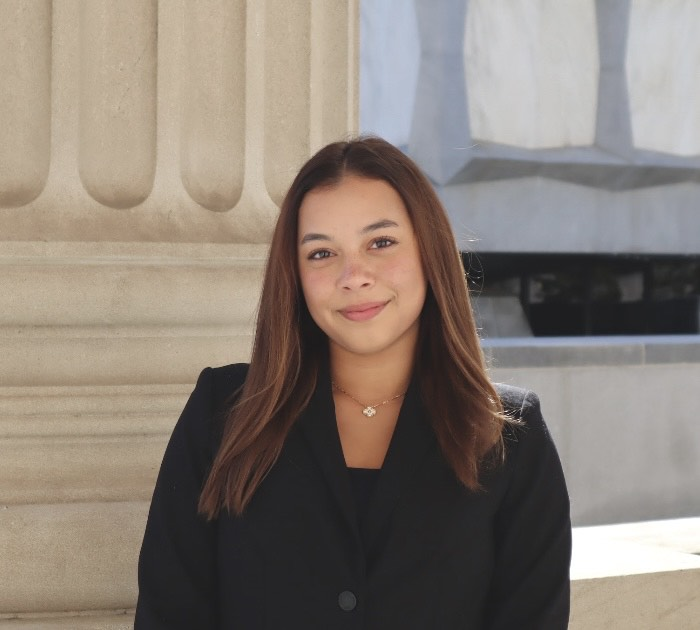
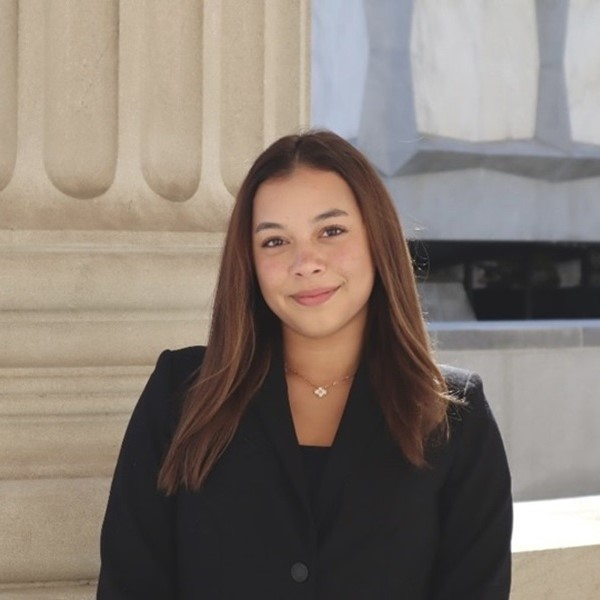
fixed mine and issy's profile pics, edited timeline, fixed up about us info and the TBDs on the site

diff --git a/src/app/components/index.html b/src/app/components/index.html
@@ -28,7 +28,7 @@
   <link href="assets/css/main.css" rel="stylesheet">
 
   <!-- =======================================================
-  * Template Name: Gp
+  * Template Name: Helix
   * Template URL: https://bootstrapmade.com/gp-free-multipurpose-html-bootstrap-template/
   * Updated: Jun 29 2024 with Bootstrap v5.3.3
   * Author: BootstrapMade.com
@@ -129,9 +129,12 @@
             <img src="assets/img/about.jpg" class="img-fluid" alt="">
           </div>
           <div class="col-lg-6 order-2 order-lg-1 content">
-            <h3>Yale's Student Healthcare + Biotech Incubator.</h3>
+            <h3>Yale's Student Healthcare and Biotech Incubator.</h3>
             <p class="fst-italic">
-              We are Yale’s only student-run incubator dedicated to accelerating healthcare, healthtech, and biotech startups. Our mission is to connect ambitious undergraduate entrepreneurs with visionary founders from Yale and the New Haven community. We carefully select the most promising startups in various health-focused fields, each at a unique stage of development, to join our incubator. Our passionate and driven students play a pivotal role in helping these startups reach critical milestones and accelerate their growth. Last year, we proudly supported 4 innovative ventures, and we are excited to build on this success in the 2024-2025 academic year.
+              We are Yale’s only student-run incubator on campus. We focus on accelerating healthcare, healthtech, and biotech startups. Our mission is to connect ambitious undergraduate entrepreneurs with visionary founders from Yale and the New Haven community. Every year, we select from some of the most promising startups in various health-focused fields at Yale, each at a unique stage of development, to join our incubator. Our passionate and driven students play a pivotal role in helping these startups reach critical milestones and accelerate their growth. Last year, we proudly supported 4 innovative ventures, and we are excited to build on this success in the 2024-2025 academic year.
+            </p>
+            <p class=""fst-italic">
+              We provide startups with the workforce to accelerate their product development, capital raises, and contracts with industry partners. Students in the program have the opportunity to hone their skills in science, software development, marketing, and finance - all while working in a high-impact real world setting, taking on initiates, and building networks with industry professionals.
             </p>
             <p class="fst-italic">
               Are you ready to dive headfirst into Yale’s entrepreneurship community? With the fall semester just around the corner, we’re looking for passionate, curious, and driven students to join our team. No startup experience? No problem! Whether you’re a seasoned entrepreneur or just eager to learn, we welcome all levels of experience. If you’re excited about making an impact and working with some of Yale’s most innovative startups, fill out our application above!
@@ -232,7 +235,7 @@
               <i class="bi bi-archive flex-shrink-0"></i>
               <div>
                 <h4>History</h4>
-                <p>Helix was founded in 2016 by a cohort of passionate Yale undergraduates in partnership with Yale Tsai City. 
+                <p>Helix was founded in 2018 by a cohort of passionate Yale undergraduates in partnership with Yale Tsai City. 
                   Since then, Helix has helped accelerate startups from a diverse client base, from life-saving biomedical devices, to social service platforms, 
                   next-generation medical diagnostics, and global health solutions. </p>
               </div>
@@ -251,7 +254,7 @@
               <i class="bi bi-broadcast flex-shrink-0"></i>
               <div>
                 <h4>Community</h4>
-                <p> Helix is a closely-knit group bonded by shared interests and diverse backgrounds. New and old students and founders can connect over weekend retreats, founder dinners... TBD</p>
+                <p> Helix is a closely-knit group bonded by shared interests and diverse backgrounds. New and old students and founders can connect over weekend retreats, founder dinners, teem meetings, and more!</p>
               </div>
             </div><!-- End Features Item-->
 
@@ -513,7 +516,7 @@
                 <div class="stats-item d-flex">
                   <i class="bi bi-emoji-smile flex-shrink-0"></i>
                   <div>
-                    <span data-purecounter-start="0" data-purecounter-end="8" data-purecounter-duration="1" class="purecounter"></span>
+                    <span data-purecounter-start="0" data-purecounter-end="6" data-purecounter-duration="1" class="purecounter"></span>
                     <p><strong>Years Operating</strong> <span>since 2018</span></p>
                   </div>
                 </div>
@@ -746,7 +749,7 @@
           <div class="col-lg-3 col-md-6 d-flex align-items-stretch" data-aos="fade-up" data-aos-delay="300">
             <div class="team-member">
               <div class="member-img">
-                <img src="assets/img/team/team-4.jpg" class="img-fluid" alt="">
+                <img src="assets/img/team/team-3.jpg" class="img-fluid" alt="">
                 <div class="social">
                   <a href=""><i class="bi bi-twitter-x"></i></a>
                   <a href=""><i class="bi bi-facebook"></i></a>
@@ -860,38 +863,23 @@
 
             <h3 class="resume-title">Undergraduate Recruitment</h3>
             <div class="resume-item">
-              <h4>Interest Forms Open</h4>
-              <h5>August 21</h5>
-              <p><em>Sign up to show interest in Helix and be part of a temporary mailing list for recuitment events</em></p>
-            </div><!-- Edn Resume Item -->
-
-            <div class="resume-item">
-              <h4>General Information Session</h4>
-              <h5>August 29</h5>
-              <p><em>This meeting will include a formal presentation of Helix, expected work from students, past projects, and the application process. Directors will be available to answer any questions and offer first-hand accounts of their time in Helix. </em></p>
-              <ul>
-                <li>Location TBD</li>
-              </ul>
-            </div><!-- Edn Resume Item -->
-
-            <div class="resume-item">
-              <h4>EC Bazaar</h4>
-              <h5>September 5</h5>
-              <p><em>Join us at our table in the EC Bazaar! Talk to directors and learn more about broadly about Helix</em></p>
-              <ul>
-                <li>Location TBD</li>
-              </ul>
-            </div><!-- Edn Resume Item -->
-
-            <div class="resume-item">
               <h4>Applications Open</h4>
-              <h5>September 7</h5>
+              <h5>August 15th</h5>
               <p><em>The application will ask for your resume and relevant experinces. It includes a series of short questions. We appreciate and thank you for your time!</em></p>
             </div><!-- Edn Resume Item -->
 
             <div class="resume-item">
-              <h4>General Information Session 2</h4>
-              <h5>September 8</h5>
+              <h4>EC Bazaar</h4>
+              <h5>September 1</h5>
+              <p><em>Join us at our table in the EC Bazaar! Talk to directors and learn more directly from members about Helix</em></p>
+              <ul>
+                <li>2-4pm at Commons, Location TBD</li>
+              </ul>
+            </div><!-- Edn Resume Item -->
+
+            <div class="resume-item">
+              <h4>General Information Session</h4>
+              <h5>September 2</h5>
               <p><em>This meeting will include a formal presentation of Helix, expected work from students, past projects, and the application process. Directors will be available to answer any questions and offer first-hand accounts of their time in Helix.</em></p>
               <ul>
                 <li>Location TBD</li>
@@ -899,25 +887,27 @@
             </div><!-- Edn Resume Item -->
 
             <div class="resume-item">
+              <h4>Drop-In Office Hours 1</h4>
+              <h5>September 5th</h5>
+              <p><em>Chat in a more casual setting with directors, questions about applications are encouraged!</em></p>
+            </div><!-- Edn Resume Item -->
+
+            <div class="resume-item">
+              <h4>Drop-In Office Hours</h4>
+              <h5>September 7th</h5>
+              <p><em>Chat in a more casual setting with directors, questions about applications are encouraged!</em></p>
+            </div><!-- Edn Resume Item -->
+
+            <div class="resume-item">
               <h4>Applications Due</h4>
-              <h5>September 15</h5>
+              <h5>September 8</h5>
               <p><em>Applications are due at 11:59 PM Eastern Time.</em></p>
             </div><!-- Edn Resume Item -->
 
             <div class="resume-item">
-              <h4>Last Day of Interviews</h4>
-              <h5>September 22</h5>
-            </div><!-- Edn Resume Item -->
-
-            <div class="resume-item">
-              <h4>Decisions Released</h4>
-              <h5>September 28</h5>
-            </div><!-- Edn Resume Item -->
-
-            <div class="resume-item">
               <h4>First Meeting</h4>
-              <h5>September 29</h5>
-              <p><em>Join us for our first meeting! We will set out expectations and discuss the training timeline. Also, enjoy Issy's overpriced donuts</em></p>
+              <h5>September 24</h5>
+              <p><em>Join us for our first meeting! Get to know eachother, we hope you will come to see Helix as a family! We will also set out expectations and discuss the training bootcamp timeline, startup onboarding, etc</em></p>
             </div><!-- Edn Resume Item -->
 
           </div>
@@ -925,7 +915,7 @@
           <div class="col-lg-6" data-aos="fade-up" data-aos-delay="200">
             <h3 class="resume-title">Startup Recruitment</h3>
             <div class="resume-item">
-              <h4>Something Something IDK</h4>
+              <h4>Startup Rescruitment</h4>
               <h5>August 6 - September 5</h5>
               <p>Initial Outreach and Conversations</p>
               <ul>
